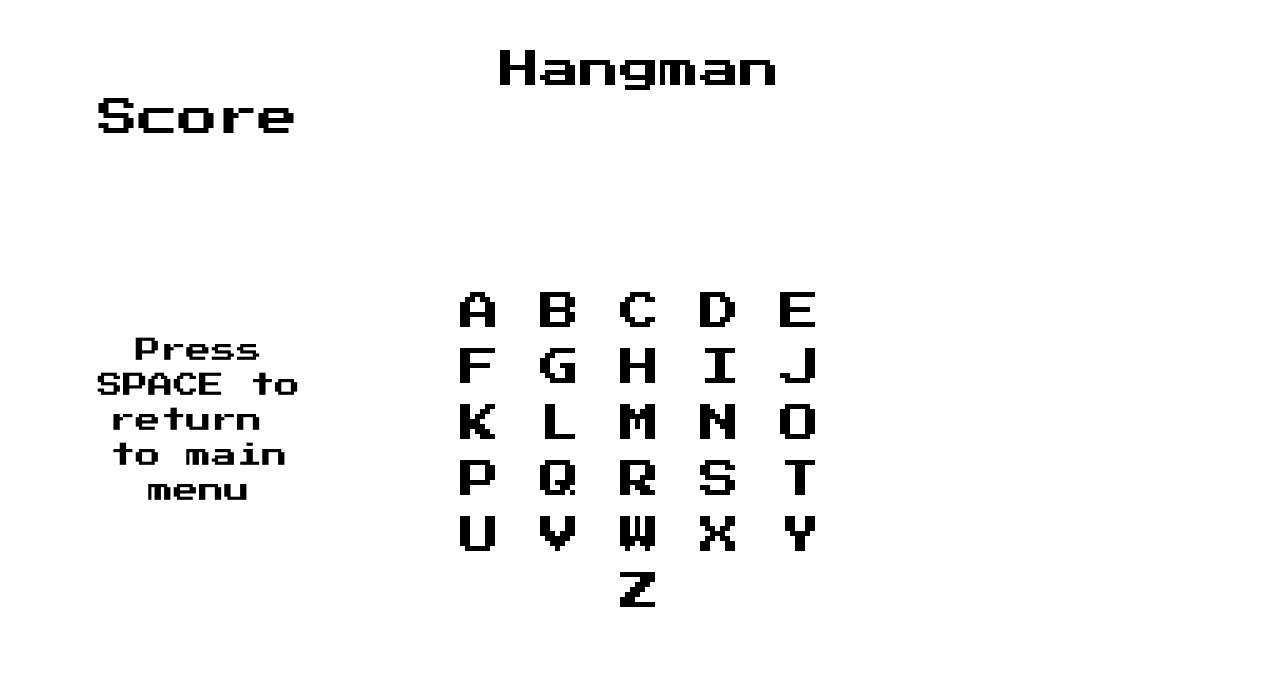
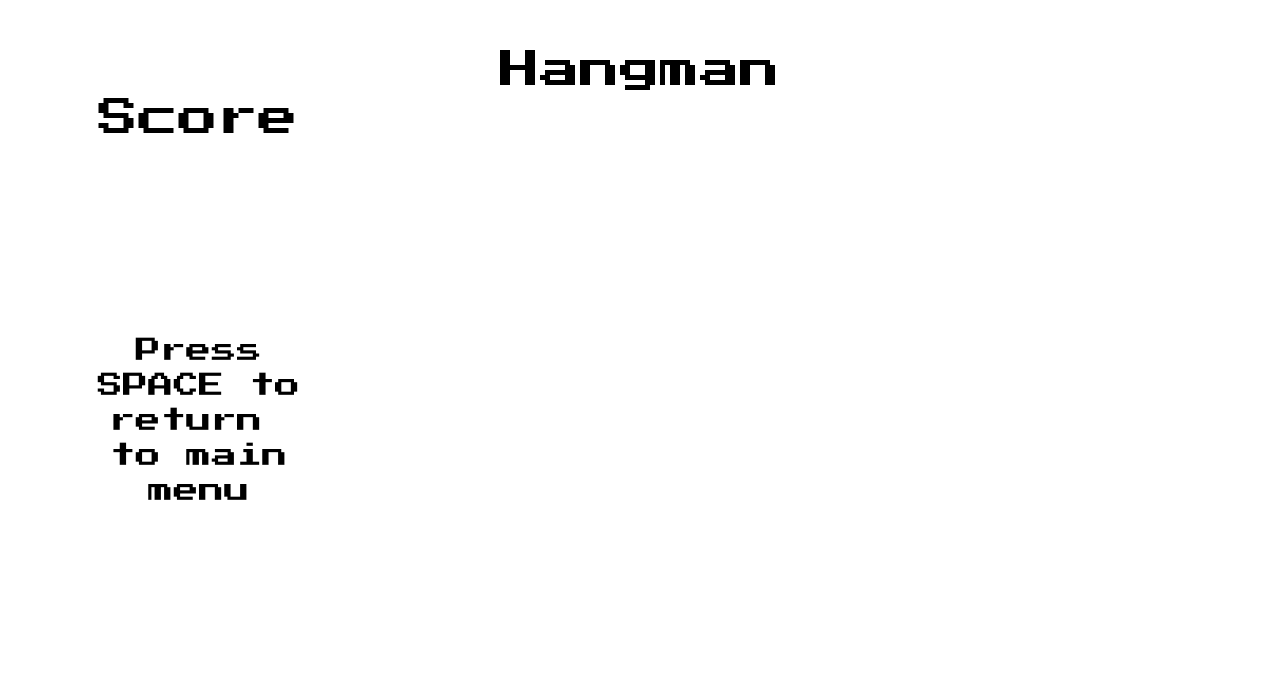
Letters not part of background now

diff --git a/src/hangman.py b/src/hangman.py
@@ -1,6 +1,36 @@
 '''docstring here'''
 import pygame
 
+class Letter(pygame.sprite.Sprite):
+    '''Letters to be displayed to show what has been chosen already'''
+    def __init__(self, x, y, text):
+        '''docstring here'''
+        super().__init__()
+        self.position = (x, y)
+        self.text = text
+        self.history = "not_chosen" # Options will be "not_chosen", "correct", "incorrect"
+    
+    def draw(self, surface):
+        '''Draws the letter with correct color according to history'''
+        if self.history=="not_chosen":
+            letter_color = "black"
+        elif self.history == "correct":
+            letter_color = "green"
+        elif self.history == "incorrect":
+            letter_color = "red"
+
+        letter_font = pygame.font.SysFont('Press_Start_2P', 40)
+        letter_display = letter_font.render(self.text, False, letter_color)
+        surface.blit(letter_display, self.position)
+
+    def incorrect(self):
+        '''Sets history to incorrect'''
+        self.history = "incorrect"
+
+    def correct(self):
+        '''Sets history to correct'''
+        self.history = "correct"
+
 def reveal_letters(letter, word, displayed_word):
     '''docstring here'''
     displayed_word = displayed_word.split()
@@ -27,6 +57,13 @@ def game_loop():
     hangman_count = 0
     word = "hello"
     displayed_word = "_ _ _ _ _ "
+    letter_grid = [Letter(455,285, "A"), Letter(535,285, "B"), Letter(615,285, "C"), Letter(695,285, "D"),
+                   Letter(775,285, "E"), Letter(455,345, "F"), Letter(535,345, "G"), Letter(615,345, "H"),
+                   Letter(695,345, "I"), Letter(775,345, "J"), Letter(455,405, "K"), Letter(535,405, "L"),
+                   Letter(615,405, "M"), Letter(695,405, "N"), Letter(775,405, "O"), Letter(455,465, "P"),
+                   Letter(535,465, "Q"), Letter(615,465, "R"), Letter(695,465, "S"), Letter(775,465, "T"),
+                   Letter(455,525, "U"), Letter(535,525, "V"), Letter(615,525, "Y"), Letter(695,525, "X"),
+                   Letter(775,525, "Y"), Letter(615,585, "Z")]
 
     while running:
         screen.fill("white")
@@ -34,7 +71,7 @@ def game_loop():
         screen.blit(background_images, (0, 0))
 
         keys = pygame.key.get_pressed()
-        if keys[pygame.K_m] or keys[pygame.K_ESCAPE]:
+        if keys[pygame.K_SPACE] or keys[pygame.K_ESCAPE]:
             escape_to_main = True
         if not game_over:
             for event in pygame.event.get():
@@ -44,21 +81,13 @@ def game_loop():
                     # A = 97 Z = 122
                     if chr(event.key) in word:
                         displayed_word = reveal_letters(chr(event.key), word, displayed_word)
+                        letter_grid[event.key - 97].correct()
                     else:
+                        letter_grid[event.key - 97].incorrect()
                         if hangman_count > 5:
-                            print("agadgafh")
                             game_over = True
                         else:
-                            print("pssgas")
                             hangman_count+=1
-        else:
-            for event in pygame.event.get():
-                if event.type == pygame.QUIT:
-                    running = False
-
-            go_font = pygame.font.SysFont('Press_Start_2P', 40)
-            go_surface = go_font.render("GAME OVER", False, "red")
-            screen.blit(go_surface, (450,125))
 
         word_font = pygame.font.SysFont('Press_Start_2P', 40)
         word_display = word_font.render(displayed_word, False, "black")
@@ -67,6 +96,18 @@ def game_loop():
         hangman_image = pygame.image.load("src/images/hangman_images/"+str(hangman_count)+".png").convert()
         hangman_image = pygame.transform.scale(hangman_image, (350, 400))
         screen.blit(hangman_image, (875, 250))
+
+        for letter in letter_grid:
+            letter.draw(screen)
+        
+        if game_over:
+            for event in pygame.event.get():
+                if event.type == pygame.QUIT:
+                    running = False
+
+            go_font = pygame.font.SysFont('Press_Start_2P', 40)
+            go_surface = go_font.render("GAME OVER", False, "red")
+            screen.blit(go_surface, (450,200))
 
         pygame.display.flip()
         dt = clock.tick(60) / 1000
